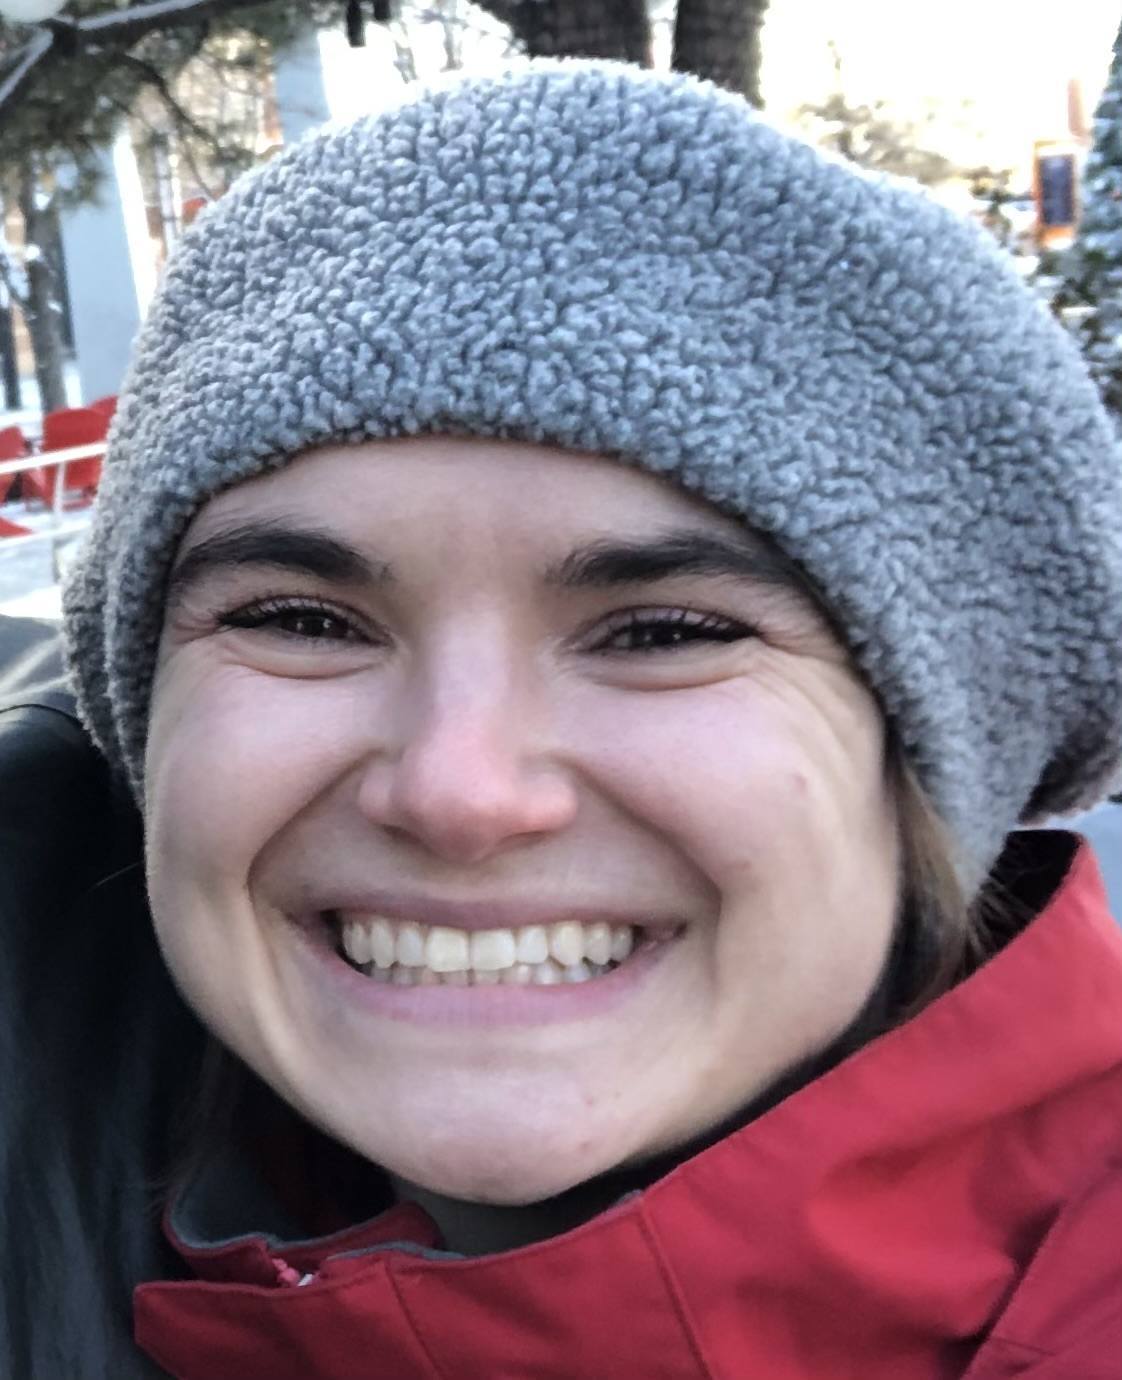
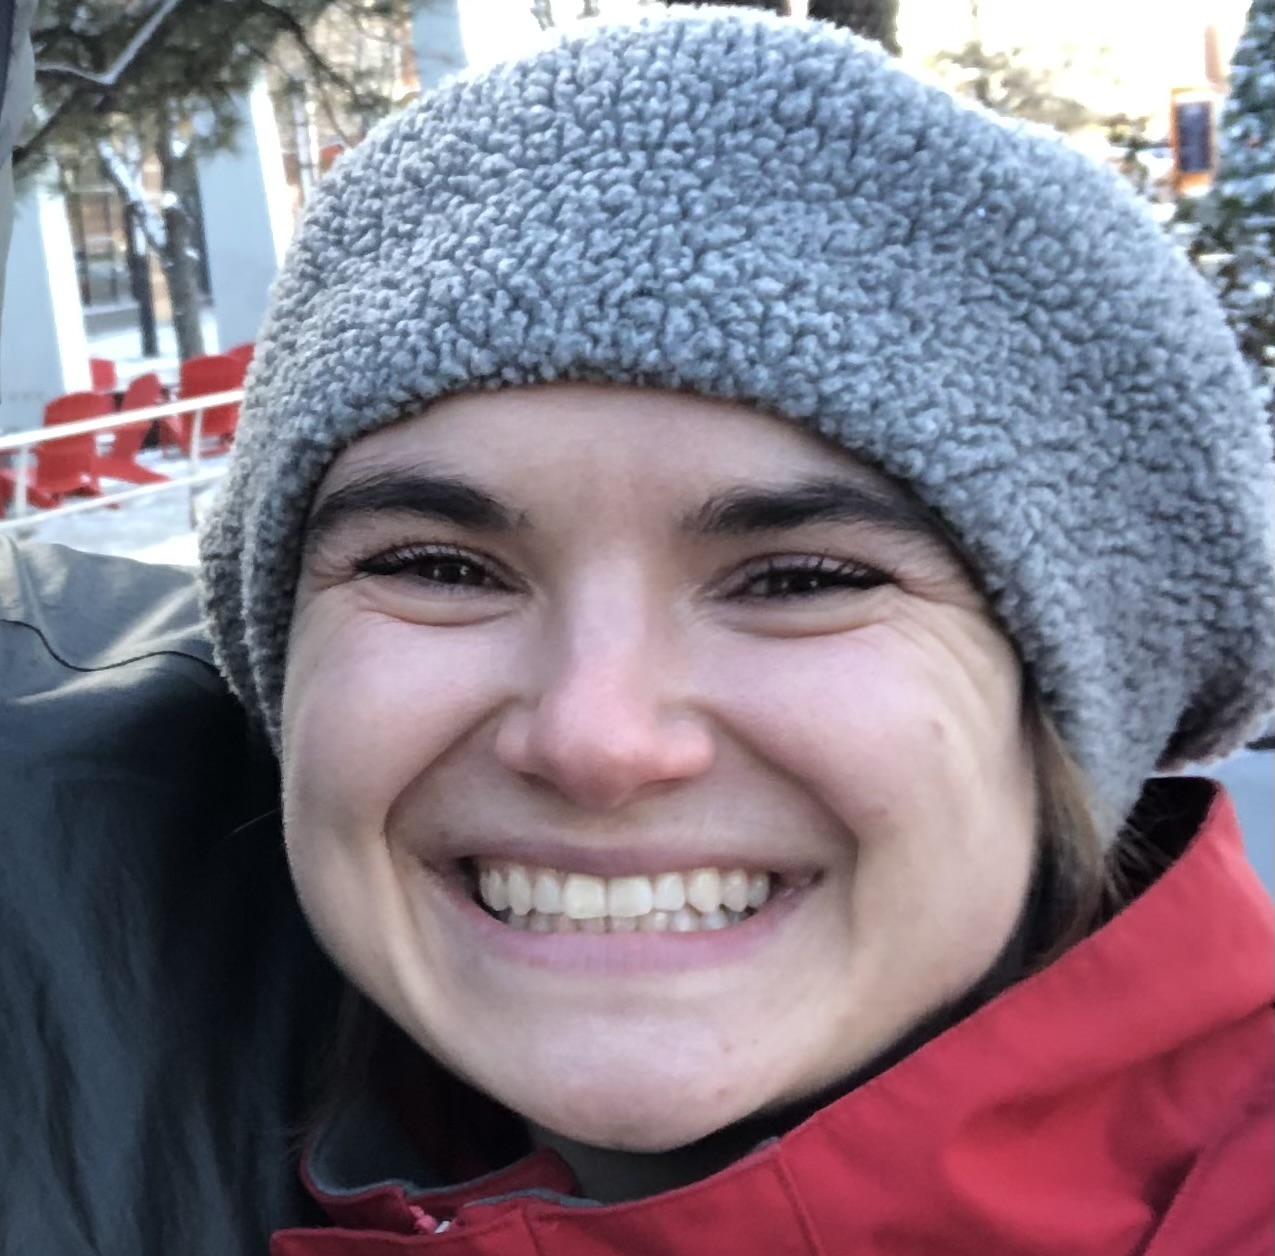
new photo

diff --git a/index.html b/index.html
@@ -9,7 +9,7 @@ description: Sophie Aiken is a graduate student at the University of California,
 <!-- <div class="jumbotron"> -->
 <div class="row">
 	<div class="col-sm-5">
-	<img  class="img" alt="Sophie Aiken" src="img/winter_headshot.jpg">
+	<img  class="img-circle avatar" alt="Sophie Aiken" src="img/winter_headshot.jpg">
 	<div class="col2-md-8 col-md-offset-3">
         <p><div class="btn-group btn-group">		
 			<a href="https://drive.google.com/file/d/14Qb6_G7CEKUkhOUEwx68559Rs1BCa74S/view?usp=sharing" class="btn btn-primary">Curriculum Vitae</a>
